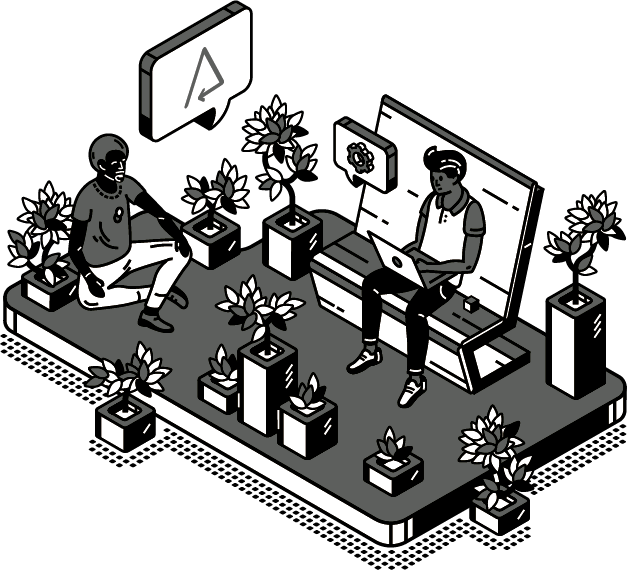
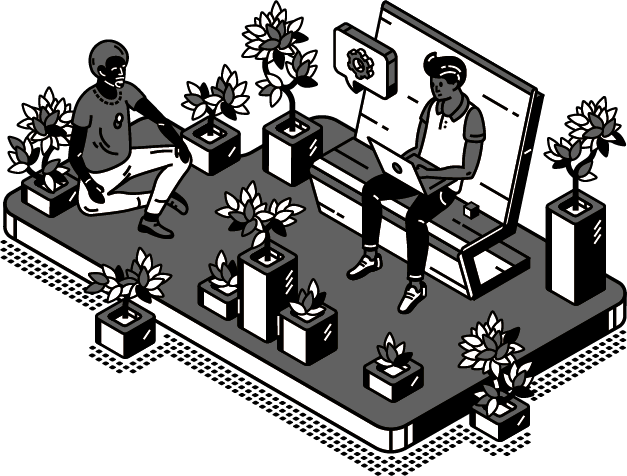
Animaciones de iconos y lista de servicios

diff --git a/css/style.css b/css/style.css
@@ -181,6 +181,13 @@ a:hover {
     right: 25%;
 }
 
+.about .animar {
+    position: absolute;
+    top: 100px;
+    left: 55px;
+    width: 60px;
+}
+
 /* Mision */
 .mision h2.vision::after {
     content: '';
@@ -253,6 +260,11 @@ a:hover {
 .clients {
     background: #474a48;
     color: #ffffff;
+}
+
+.why .animada {
+    position: absolute;
+    width: 50px;
 }
 
 /* Services */
@@ -338,12 +350,128 @@ a:hover {
     font-family: 'Ghotam-light', serif;
     font-weight: normal;
     position: absolute;
-    right: -11px;
+    right: -10px;
     height: 1px;
     top: -28px;
     animation: ancho 5s forwards infinite;
     -webkit-animation: ancho 5s forwards infinite;
 }
+
+@keyframes abajo {
+    0% {
+        height: 0px;
+        width: 0;
+    }
+
+    50% {
+        height: 85px;
+        width: 0;
+    }
+
+    55% {
+        height: 85px;
+        width: 0;
+    }
+
+    60% {
+        height: 85px;
+        width: 0px;
+    }
+
+    100% {
+        height: 85px;
+        width: 80px;
+        border-bottom: 1px solid;
+    }
+
+}
+
+@keyframes ancho {
+    0% {
+        top: 0;
+    }
+
+    50% {
+        right: -10px;
+        top: 64px;
+        transform: rotate(0deg);
+    }
+
+    55% {
+        top: 85px;
+        transform: rotate(90deg);
+        -webkit-transform: rotate(90deg);
+        -moz-transform: rotate(90deg);
+        -ms-transform: rotate(90deg);
+        -o-transform: rotate(90deg);
+        right: -21px;
+    }
+
+    60% {
+        top: 85px;
+        transform: rotate(90deg);
+        -webkit-transform: rotate(90deg);
+        -moz-transform: rotate(90deg);
+        -ms-transform: rotate(90deg);
+        -o-transform: rotate(90deg);
+        right: -21px;
+    }
+
+    100% {
+        top: 85px;
+        right: 50px;
+        transform: rotate(90deg);
+        -webkit-transform: rotate(90deg);
+        -moz-transform: rotate(90deg);
+        -ms-transform: rotate(90deg);
+        -o-transform: rotate(90deg);
+    }
+
+}
+
+@keyframes anchodos {
+    0% {
+        top: 0;
+    }
+
+    50% {
+        right: -8px;
+        top: 64px;
+        transform: rotate(0deg);
+    }
+
+    55% {
+        top: 85px;
+        transform: rotate(90deg);
+        -webkit-transform: rotate(90deg);
+        -moz-transform: rotate(90deg);
+        -ms-transform: rotate(90deg);
+        -o-transform: rotate(90deg);
+        right: -21px;
+    }
+
+    60% {
+        top: 85px;
+        transform: rotate(90deg);
+        -webkit-transform: rotate(90deg);
+        -moz-transform: rotate(90deg);
+        -ms-transform: rotate(90deg);
+        -o-transform: rotate(90deg);
+        right: -21px;
+    }
+
+    100% {
+        top: 85px;
+        right: 50px;
+        transform: rotate(90deg);
+        -webkit-transform: rotate(90deg);
+        -moz-transform: rotate(90deg);
+        -ms-transform: rotate(90deg);
+        -o-transform: rotate(90deg);
+    }
+
+}
+
 
 /* span {
     display: inline-block;
@@ -412,6 +540,11 @@ footer a:hover {
         left: -200px;
         top: -80px;
     }
+
+    .why img.animada {
+        top: -35px;
+        left: 135px;
+    }
 }
 
 @media (max-width:1199px) {
@@ -419,6 +552,17 @@ footer a:hover {
         width: 400px;
         left: -140px;
         top: -70px;
+    }
+
+    .about .animar {
+        top: 90px;
+        left: 50px;
+    }
+
+    .why .animada {
+        width: 40px;
+        top: -35px;
+        left: 120px;
     }
 
     .mision h2.vision::before {
@@ -462,6 +606,12 @@ footer a:hover {
     .partners a {
         font-size: 13px;
     }
+
+    .partners div h3::before {
+        right: -8px;
+        /* animation-name: anchodos; */
+    }
+
 }
 
 @media (max-width:991px) {
@@ -470,6 +620,18 @@ footer a:hover {
         top: 0;
         left: 0;
         margin-top: 2rem;
+    }
+
+    .about .animar {
+        top: 150px;
+        left: 135px;
+    }
+
+    .why .animada {
+        width: 50px;
+        left: 210px;
+        position: absolute;
+        top: -30px;
     }
 
     .partners h3 {
@@ -532,6 +694,19 @@ footer a:hover {
         top: -25px;
     }
 
+    .about .animar {
+        top: 40px;
+        left: 70px;
+        width: 40px;
+    }
+
+    .why .animada {
+        width: 40px;
+        top: -40px;
+        position: absolute;
+        left: 105px;
+    }
+
     .services .img-servicios {
         max-width: 90%;
     }
@@ -543,6 +718,10 @@ footer a:hover {
     .mision .estrella::before,
     .mision .estrella::after {
         display: none;
+    }
+
+    .mision .pulse {
+        width: 60px;
     }
 
     footer ul {
@@ -557,76 +736,4 @@ footer a:hover {
         text-align: center;
         padding-top: 2rem;
     }
-}
-
-@keyframes abajo {
-    0% {
-        height: 0px;
-        width: 0;
-    }
-
-    50% {
-        height: 85px;
-        width: 0;
-    }
-
-    55% {
-        height: 85px;
-        width: 0;
-    }
-
-    60% {
-        height: 85px;
-        width: 0px;
-    }
-
-    100% {
-        height: 85px;
-        width: 80px;
-        border-bottom: 1px solid;
-    }
-
-}
-
-@keyframes ancho {
-    0% {
-        top: 0;
-    }
-
-    50% {
-        right: -11px;
-        top: 64px;
-        transform: rotate(0deg);
-    }
-
-    55% {
-        top: 85px;
-        transform: rotate(90deg);
-        -webkit-transform: rotate(90deg);
-        -moz-transform: rotate(90deg);
-        -ms-transform: rotate(90deg);
-        -o-transform: rotate(90deg);
-        right: -21px;
-    }
-
-    60% {
-        top: 85px;
-        transform: rotate(90deg);
-        -webkit-transform: rotate(90deg);
-        -moz-transform: rotate(90deg);
-        -ms-transform: rotate(90deg);
-        -o-transform: rotate(90deg);
-        right: -21px;
-    }
-
-    100% {
-        top: 85px;
-        right: 50px;
-        transform: rotate(90deg);
-        -webkit-transform: rotate(90deg);
-        -moz-transform: rotate(90deg);
-        -ms-transform: rotate(90deg);
-        -o-transform: rotate(90deg);
-    }
-
 }

diff --git a/index.html b/index.html
@@ -74,20 +74,21 @@
                 <div class="col-lg-6 px-5 pr-lg-5 pl-lg-0">
                     <img src="images/About/Quienes-somos.png" class="img-fluid" alt="Quienes somos backspace">
                     <img src="images/About/Question.png" class="question wow pulse" data-wow-iteration="infinite" alt="Quienes somos backspace">
+                    <img src="images/About/Animar.png" class="animar wow pulse" data-wow-iteration="infinite" alt="">
                 </div>
             </div>
         </div>
     </section>
 
     <!-- Mision -->
-    <section class="mision my-5 py-5" id="mision">
+    <section class="mision my-5 pt-5 py-md-5" id="mision">
         <div class="container position-relative">
             <h2 class="text-right mision position-relative p-0 px-md-5 p-xl-0">MISIÓN</h2>
             <div class="row align-items-center py-5">
                 <div class="col-md-4 d-flex justify-content-center align-items-center">
-                    <img src="images/Mision/Like.png" width="70" height="" class="wow pulse" data-wow-iteration="infinite" data-wow-duration="1s" alt="">
+                    <img src="images/Mision/Like.png" width="70" height="" class="wow pulse" data-wow-iteration="infinite" data-wow-duration="" alt="">
                 </div>
-                <div class="col-md-6 offset-md-2 d-flex align-items-center">
+                <div class="col-md-6 mt-4 mt-md-0 offset-md-2 d-flex align-items-center">
                     <p class="text-right mb-0">Brindar soluciones rápidas y eficientes para tus problemas en el área de sistemas con el mejor servicio para tus necesidades.</p>
                 </div>
             </div>
@@ -99,7 +100,7 @@
                 </div>
                 <div class="col-md-4 offset-md-2 d-flex justify-content-center align-items-center">
                     <div class="estrella">
-                        <img src="images/Mision/Estrella.png" width="70" alt="Mision de backspace" data-wow-iteration="infinite" class="wow fadeIn" data-wow-duration="2s">
+                        <img src="images/Mision/Estrella.png" width="70" alt="Mision de backspace" data-wow-iteration="infinite" class="wow pulse" data-wow-duration="">
                     </div>
                 </div>
             </div>
@@ -112,6 +113,7 @@
             <h2 class="text-center">¿POR QUÉ NOSOTROS?</h2>
             <div class="row my-5">
                 <div class="col-lg-5 px-5 order-1 order-lg-0 mt-5 mt-lg-0">
+                    <img src="images/Why/Animar.png" class="animada wow pulse" data-wow-iteration="infinite" alt="">
                     <img src="images/Why/Porque-nosotros.png" class="img-fluid wow fadeIn" alt="">
                 </div>
                 <div class="col-lg-6 d-flex flex-column justify-content-center order-0 order-lg-1">
@@ -129,18 +131,18 @@
             <div class="row">
                 <div class="col-lg-8">
                     <ul>
-                        <li>Revisio¡ón de Equipos y Diagnósticos</li>
-                        <li>Asesorías Uno a Uno</li>
-                        <li>Asesorías a Empresas</li>
-                        <li>Reparación de iPhone, iPad y Dispositivos Móviles</li>
-                        <li>Reparaciones de todos los equipos de cómputo</li>
-                        <li>Mantenimientos Preventivos y Correctivos</li>
-                        <li>Actualizaciones del Hardware o modificaciones para un mejor uso</li>
-                        <li>Trámite de Garantías agilizando y garantizando su reparación correcta</li>
-                        <li>Servicio de respaldo de datos o migración</li>
-                        <li>Servicio de Red</li>
-                        <li>Servicio de Impresión</li>
-                        <li>Pólizas de Servicio para Empresas</li>
+                        <li class="wow fadeIn" data-wow-delay="">Revisio¡ón de Equipos y Diagnósticos</li>
+                        <li class="wow fadeIn" data-wow-delay=".5s">Asesorías Uno a Uno</li>
+                        <li class="wow fadeIn" data-wow-delay="1s">Asesorías a Empresas</li>
+                        <li class="wow fadeIn" data-wow-delay="1.5s">Reparación de iPhone, iPad y Dispositivos Móviles</li>
+                        <li class="wow fadeIn" data-wow-delay="2s">Reparaciones de todos los equipos de cómputo</li>
+                        <li class="wow fadeIn" data-wow-delay="2.5s">Mantenimientos Preventivos y Correctivos</li>
+                        <li class="wow fadeIn" data-wow-delay="3s">Actualizaciones del Hardware o modificaciones para un mejor uso</li>
+                        <li class="wow fadeIn" data-wow-delay="3.5s">Trámite de Garantías agilizando y garantizando su reparación correcta</li>
+                        <li class="wow fadeIn" data-wow-delay="4s">Servicio de respaldo de datos o migración</li>
+                        <li class="wow fadeIn" data-wow-delay="4.5s">Servicio de Red</li>
+                        <li class="wow fadeIn" data-wow-delay="5s">Servicio de Impresión</li>
+                        <li class="wow fadeIn" data-wow-delay="5.5s">Pólizas de Servicio para Empresas</li>
                     </ul>
                 </div>
                 <div class="col-lg-4 d-flex justify-content-center">
